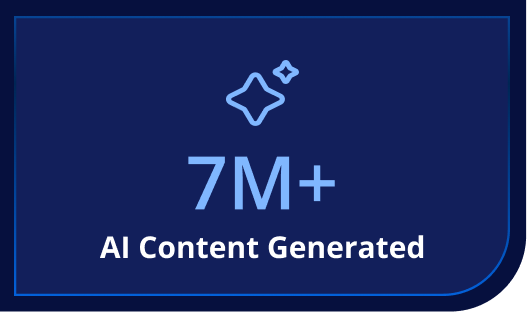
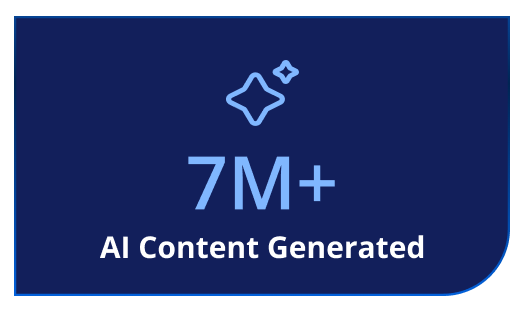
hero section animation fix

diff --git a/src/components/home/Hero.tsx b/src/components/home/Hero.tsx
@@ -59,13 +59,29 @@ function useIsMobile() {
   return isMobile;
 }
 
+/**
+ * StatGlow: a small wrapper that places an animated glow behind its children.
+ * - stat-glow-wrap controls clipping, radius, and border
+ * - ::before (stat-glow-pass) is the animated light sweep
+ * - stat-glow-inner holds the image content above the glow
+ */
+const StatGlow: React.FC<React.HTMLAttributes<HTMLDivElement>> = ({
+  className = "",
+  children,
+  ...rest
+}) => {
+  return (
+    <div className={`stat-glow-wrap ${className}`} {...rest}>
+      <div className="stat-glow-inner">{children}</div>
+    </div>
+  );
+};
+
 function PresaleCard() {
   const openPresale = () => window.open("https://swarm.neurolov.ai/", "_blank");
-
   return (
     <div className="relative">
       <div className="absolute inset-0 bg-gradient-to-r from-blue-400/20 to-white/20 rounded-3xl blur-3xl"></div>
-
       <div className="relative bg-gradient-to-br from-blue-900/90 to-blue-800/90 backdrop-blur-sm border border-blue-400/30 rounded-2xl p-6 shadow-2xl">
         <div className="flex items-center justify-between mb-4">
           <div className="flex items-center gap-3">
@@ -76,7 +92,6 @@ function PresaleCard() {
           </div>
           <div className="text-white text-sm font-semibold">600% to TGE</div>
         </div>
-
         <div className="flex justify-between mb-4">
           <div className="text-white text-sm">
             Actual Price: <span className="font-semibold">$0.025</span>
@@ -85,7 +100,6 @@ function PresaleCard() {
             Listing Price: <span className="font-semibold">$0.55</span>
           </div>
         </div>
-
         <div className="mb-4">
           <div className="w-full bg-blue-900/50 rounded-full h-3">
             <div
@@ -96,19 +110,16 @@ function PresaleCard() {
             </div>
           </div>
         </div>
-
         <div className="flex justify-between items-center mb-6">
           <span className="text-white text-sm">USD Raised:</span>
           <span className="text-white text-lg font-bold">$9,923 / $15,000</span>
         </div>
-
         <button
           onClick={openPresale}
           className="w-full bg-gradient-to-r from-blue-400 to-blue-300 text-white font-bold py-3 px-6 rounded-xl mb-6 hover:from-blue-300 hover:to-blue-200 transition-all duration-300 transform hover:scale-105"
         >
           BUY NOW
         </button>
-
         <div className="mb-4">
           <h4 className="text-white text-sm font-semibold mb-3">
             COMMUNITY & SUPPORT
@@ -149,7 +160,6 @@ function PresaleCard() {
             </div>
           </div>
         </div>
-
         <div>
           <h4 className="text-white text-sm font-semibold mb-3">
             SUBSCRIBE FOR UPDATE
@@ -234,7 +244,6 @@ export default function Hero() {
       <section className="relative">
         <div className="absolute inset-0 " />
         <div className="absolute inset-0 bg-black/20" />
-
         <div
           className={`relative min-h-screen pt-24 flex items-center ${
             isLoaded ? "opacity-100 translate-y-0" : "opacity-0 translate-y-6"
@@ -249,13 +258,9 @@ export default function Hero() {
                   </div>
                   <div className="inline-block relative">
                     <div className="absolute top-1 -left-1 w-2 h-2 bg-[#D9D9D9] border border-[#318AF3] z-10" />
-
                     <div className="absolute top-1 -right-1 w-2 h-2 bg-[#D9D9D9] border border-[#318AF3] z-10" />
-
                     <div className="absolute -bottom-1 -left-1 w-2 h-2 bg-[#D9D9D9] border border-[#318AF3] z-10" />
-
                     <div className="absolute -bottom-1 -right-1 w-2 h-2 bg-[#D9D9D9] border border-[#318AF3] z-10" />
-
                     <span className="block font-sans space-x-2 text-lg p-2 border-2 border-b-0 border-[#265CA8] mt-2 sm:text-4xl md:text-5xl text-[#318AF3] relative">
                       <span
                         className="absolute inset-0 bg-gradient-to-r from-black to-[#00377E] -z-10"
@@ -267,11 +272,8 @@ export default function Hero() {
                   </div>
                   <div className="inline-block relative">
                     <div className="absolute -top-1 -right-1 w-2 h-2 bg-[#D9D9D9] border border-[#318AF3] z-10" />
-
                     <div className="absolute -bottom-1 -left-1 w-2 h-2 bg-[#D9D9D9] border border-[#318AF3] z-10" />
-
                     <div className="absolute -bottom-1 -right-1 w-2 h-2 bg-[#D9D9D9] border border-[#318AF3] z-10" />
-
                     <span className="block font-sans space-x-2 text-lg p-2 border-2 border-[#265CA8] sm:text-4xl md:text-5xl text-[#318AF3] relative">
                       <span
                         className="absolute inset-0 bg-gradient-to-r from-black to-[#00377E] -z-10"
@@ -283,18 +285,38 @@ export default function Hero() {
                   </div>
                 </h1>
 
-                <div className="text-white font-sans text-sm my-10  ">
+                <div className="text-white font-sans text-sm my-10">
                   Neurolov turns idle phones, laptops, and PCs into GPU power.
                   Together, we build a community supercomputer that speeds up
                   AI, supports developers, creates smart agents, and boosts
                   gaming and research.
                 </div>
 
+                {/* Stats with glow behind each image */}
                 <div className="grid grid-cols-1 sm:grid-cols-3 gap-5 max-w-3xl reveal reveal-delay-4">
-                  <img src="/hero/stat-1.png" alt="" />
-                  <img src="/hero/stat-2.png" alt="" />
-                  <img src="/hero/stat-3.png" alt="" />
+                  <StatGlow>
+                    <img
+                      src="/hero/stat-1.png"
+                      alt=""
+                      className="block w-full h-auto"
+                    />
+                  </StatGlow>
+                  <StatGlow>
+                    <img
+                      src="/hero/stat-2.png"
+                      alt=""
+                      className="block w-full h-auto"
+                    />
+                  </StatGlow>
+                  <StatGlow>
+                    <img
+                      src="/hero/stat-3.png"
+                      alt=""
+                      className="block w-full h-auto"
+                    />
+                  </StatGlow>
                 </div>
+
                 <div className="flex justify-start mt-4 reveal reveal-delay-3">
                   <button
                     onClick={openPresale}
@@ -336,6 +358,43 @@ export default function Hero() {
         .reveal-delay-4 { transition-delay: .4s; }
         .reveal-delay-5 { transition-delay: .5s; }
         .reveal-delay-6 { transition-delay: .6s; }
+
+        .stat-glow-wrap {
+          position: relative;
+          overflow: hidden;
+          border-bottom-right-radius: 28px;
+
+          border: 1px solid #002554;
+          background: #002554;
+          isolation: isolate;
+        }
+
+        .stat-glow-wrap::before {
+          content: '';
+          position: absolute;
+          inset: 0;
+          width: 55%;
+          height: 100%;
+          background: linear-gradient(90deg, transparent, #0361DA, transparent);
+          animation: statGlowSweep 2.6s linear infinite;
+          z-index: 1;
+          border-radius: 10px;
+          filter: blur(10px);
+          transform: translateX(-150%);
+        }
+
+        .stat-glow-inner {
+          position: relative;
+          z-index: 2;
+          border-radius: 0px;
+          overflow: hidden;
+          background: transparent;
+        }
+
+        @keyframes statGlowSweep {
+          0%   { transform: translateX(-150%); }
+          100% { transform: translateX(150%); }
+        }
       `}</style>
     </>
   );
